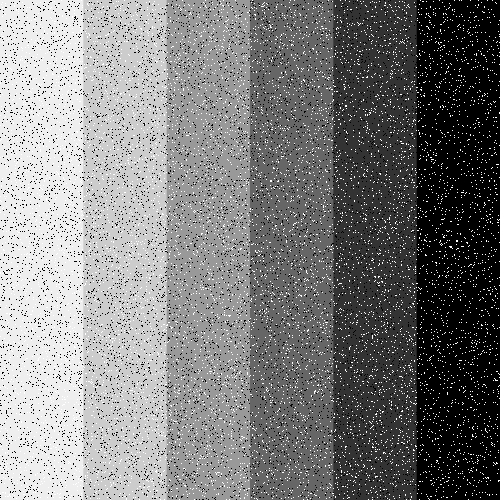
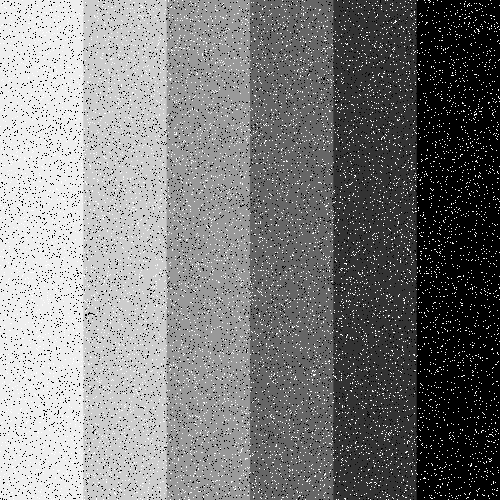
2 filters

diff --git a/main.py b/main.py
@@ -53,21 +53,9 @@ for count in range(len(input_imgs)):
     plt.hist(img_hist.ravel(), 256, [0, 256])
     plt.show()
 
-    g = cv.GaussianBlur(src=noise_img, ksize=(9, 9), sigmaX=70)
-    g = np.clip(g, 0, 1)
-
-    cv.imshow('{} with low-pass filter'.format(input_imgs[count]), g)
-    cv.imwrite('{}_passa-baixa.png'.format(input_imgs[count]), g * 255)
-
-    cv.waitKey(0)
-    cv.destroyAllWindows()
-    img_hist = g * 255
-    plt.hist(img_hist.ravel(), 256, [0, 256])
-    plt.show()
-
     [M, N] = noise_img.shape
     FT_img = np.fft.fft2(noise_img)
-    n = 2
+    n = 4
     D0 = 70
     u = np.arange(M)
     v = np.arange(N)
